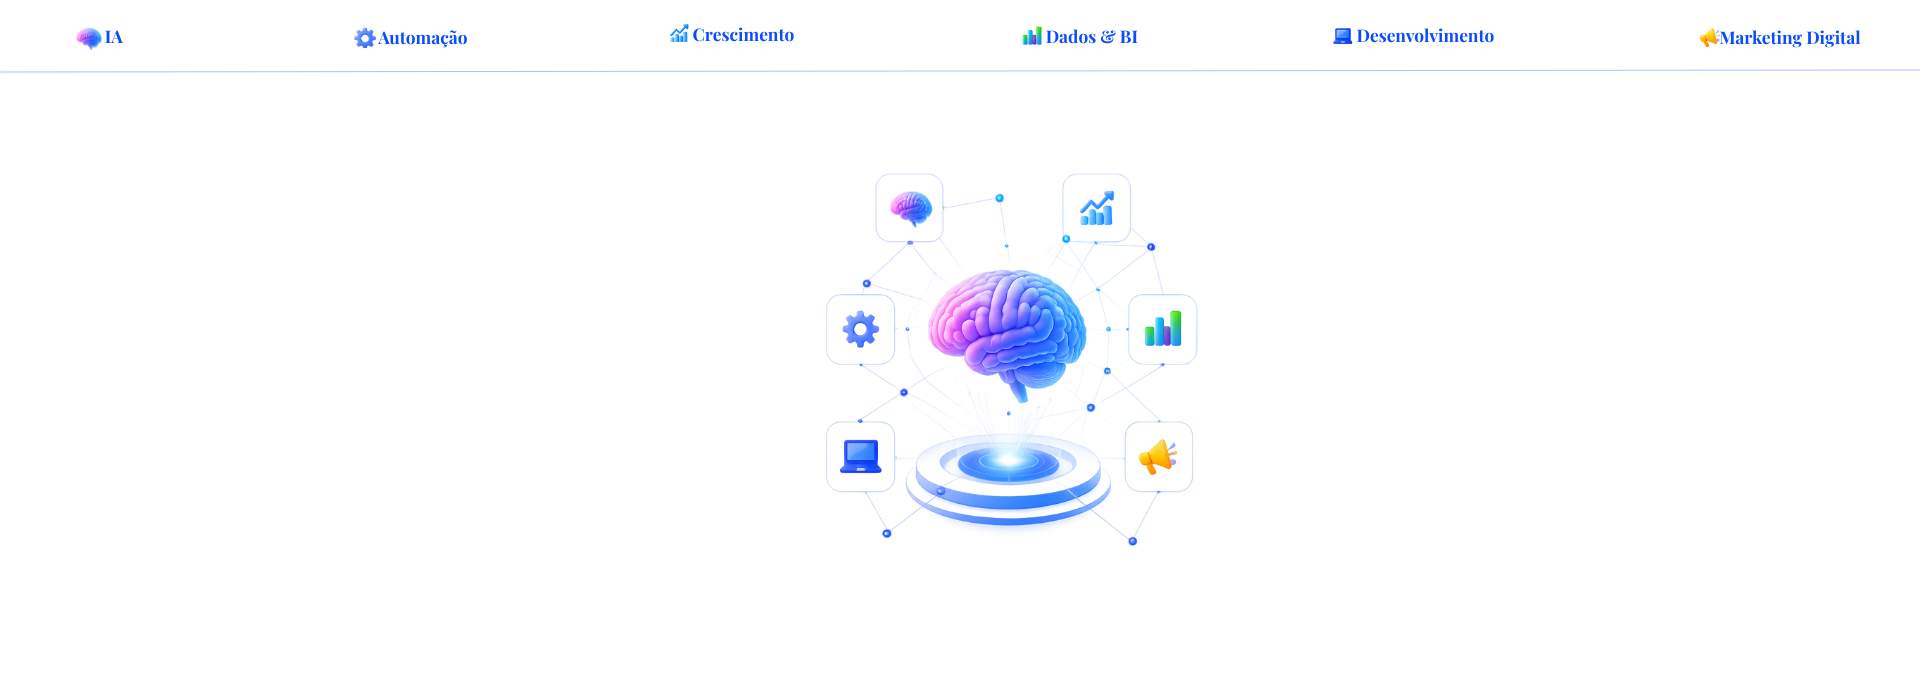
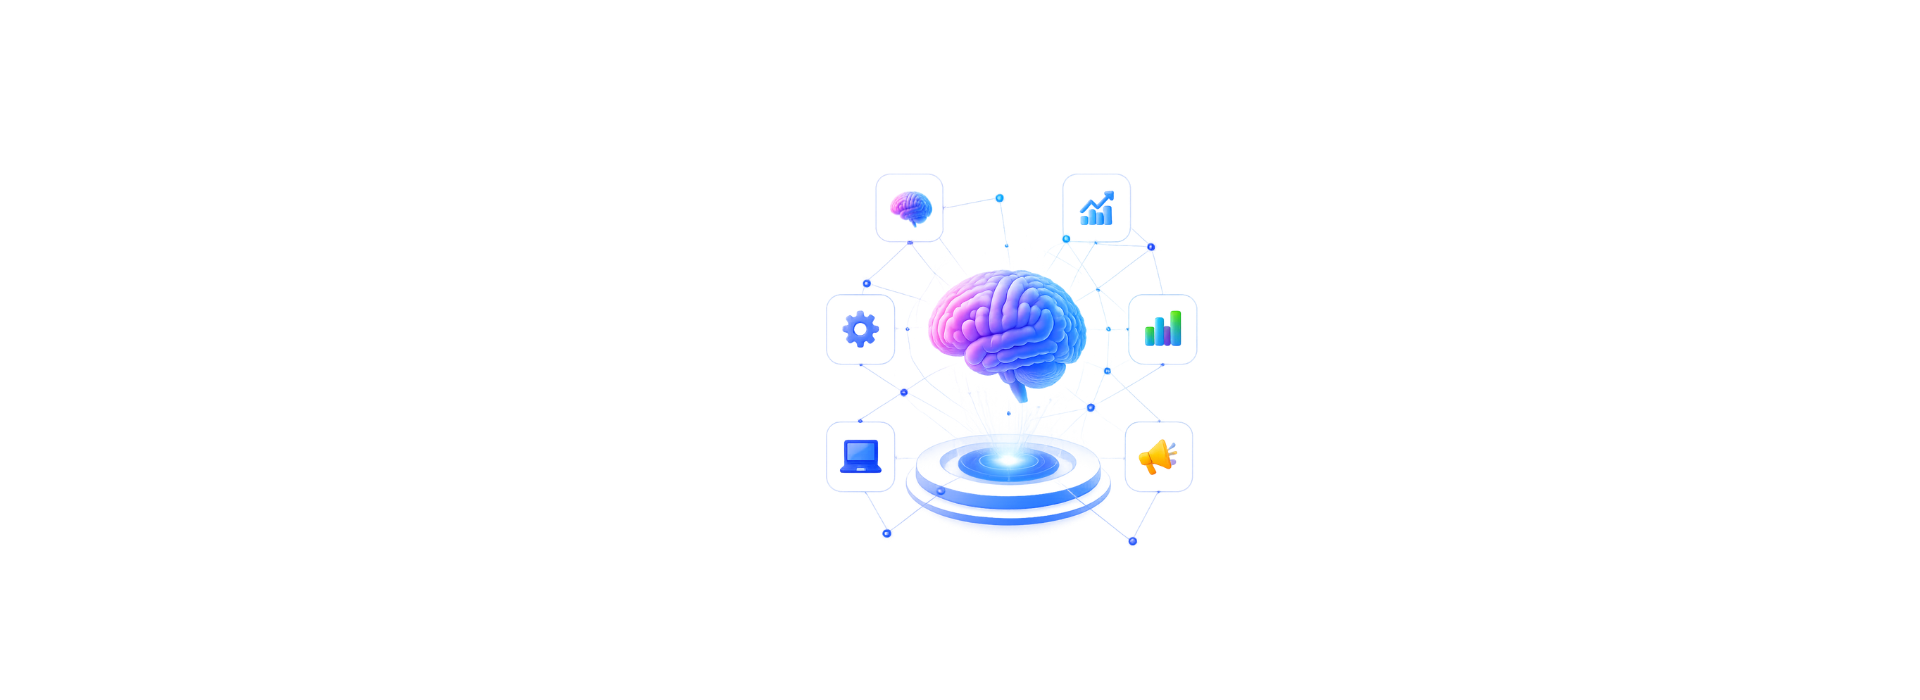
update CTAs, css and about, home and services pages

diff --git a/client/src/components/ui/cta/QuizCTA.tsx b/client/src/components/ui/cta/QuizCTA.tsx
@@ -4,17 +4,28 @@ import { PremiumButton } from "@/components/ui/button/PremiumButton";
 import { Reveal } from "@/components/ui/motion/Reveal";
 import { Icons } from "@/lib/icons";
 
+const highlightStyle = {
+  font: "inherit",
+  fontWeight: "inherit",
+  lineHeight: "inherit",
+  letterSpacing: "inherit",
+};
+
 const quizCtaContent = {
   pt: {
     label: "Quiz IA",
-    title: "Descubra o potencial da IA para o seu negócio",
-    description: "Responda a um quiz rápido e perceba onde a inteligência artificial pode gerar mais eficiência, crescimento e clareza.",
+    title: "Descubra o potencial da IA",
+    title_highlight: "para o seu negócio",
+    description: "Responda a um quiz rápido e perceba onde a inteligência artificial pode gerar",
+    description_highlight: "mais eficiência, crescimento e clareza.",
     button: "Fazer o Quiz IA",
   },
   en: {
     label: "AI Quiz",
-    title: "Discover the AI potential inside your business",
-    description: "Take a quick quiz and understand where artificial intelligence can create more efficiency, growth, and clarity.",
+    title: "Discover the AI potential",
+    title_highlight: "inside your business",
+    description: "Take a quick quiz and understand where artificial intelligence can create",
+    description_highlight: "more efficiency, growth, and clarity.",
     button: "Take the AI Quiz",
   },
 };
@@ -31,9 +42,31 @@ export function QuizCTA() {
       <div className="relative z-10 mx-auto flex max-w-6xl flex-col items-center gap-8 text-center lg:flex-row lg:justify-between lg:text-left">
         <Reveal>
           <div className="max-w-3xl">
-            <p className="mb-4 font-detail text-[12px] font-black uppercase tracking-[0.24em] text-[var(--brand-primary)]">{content.label}</p>
-            <h2 className="font-heading text-[40px] font-black leading-tight text-[var(--brand-night)]">{content.title}</h2>
-            <p className="mt-5 max-w-2xl text-[14px] font-medium leading-relaxed text-[var(--brand-ink)]">{content.description}</p>
+            <p className="mb-4 font-detail text-[12px] font-black uppercase tracking-[0.24em] text-[var(--brand-primary)]">
+              {content.label}
+            </p>
+            <h2 className="font-heading text-[40px] font-black leading-tight text-[var(--brand-night)]">
+              {content.title}
+              {content.title_highlight && (
+                <>
+                  {" "}
+                  <span className="text-[#00D1FF]" style={highlightStyle}>
+                    {content.title_highlight}
+                  </span>
+                </>
+              )}
+            </h2>
+            <p className="mt-5 max-w-2xl text-[14px] font-medium leading-relaxed text-[var(--brand-ink)]">
+              {content.description}
+              {content.description_highlight && (
+                <>
+                  {" "}
+                  <span className="text-[#00D1FF]" style={highlightStyle}>
+                    {content.description_highlight}
+                  </span>
+                </>
+              )}
+            </p>
           </div>
         </Reveal>
 

diff --git a/client/src/content/styles/legal.css b/client/src/content/styles/legal.css
@@ -1,5 +1,5 @@
 .legal-page {
-  background: var(--section-ice);
+  background: var(--brand-offwhite);
   color: var(--brand-night);
 }
 
@@ -7,20 +7,20 @@
   position: relative;
   overflow: hidden;
   padding: 80px 52px 100px;
-  background: var(--section-ice);
+  background: var(--brand-offwhite);
 }
 
 .legal-main-bg {
+  display: none;
   position: absolute;
   inset: 0;
   pointer-events: none;
-  background:
-    radial-gradient(ellipse 45% 52% at 88% 12%, color-mix(in srgb, var(--brand-purple) 9%, transparent) 0%, transparent 65%),
-    radial-gradient(ellipse 34% 44% at 5% 82%, color-mix(in srgb, var(--brand-primary) 5%, transparent) 0%, transparent 62%);
+  background: none;
 }
 
 .legal-main-bg::after {
-  content: "";
+  content: none;
+  display: none;
   position: absolute;
   inset: 0;
   background-image:
@@ -58,8 +58,8 @@
 }
 
 .legal-sidebar-title {
-  margin-bottom: 16px;
-  color: color-mix(in srgb, var(--brand-night) 34%, transparent);
+  margin-bottom: 20px;
+  color: #60A5FA;
 }
 
 .legal-cats {
@@ -80,7 +80,7 @@
   font-family: var(--font-body);
   font-size: 14px !important;
   font-weight: 700;
-  color: color-mix(in srgb, var(--brand-night) 54%, transparent);
+  color: var(--brand-night);
   cursor: pointer;
   text-align: left;
   transition: all .2s ease;
@@ -341,11 +341,14 @@
   color: #60A5FA;
 }
 
-.dark .legal-sidebar-title,
 .dark .legal-cat,
-.dark .legal-group-title,
 .dark .legal-document-card h2 {
   color: var(--brand-offwhite);
+}
+
+.dark .legal-sidebar-title,
+.dark .legal-group-title {
+  color: #60A5FA;
 }
 
 .dark .legal-document-card p {

diff --git a/client/src/pages/Services.tsx b/client/src/pages/Services.tsx
@@ -1,4 +1,4 @@
-import { useEffect, useState } from "react";
+import { useEffect, useRef, useState } from "react";
 import { useLocation } from "wouter";
 
 import { FinalCTA } from "@/components/ui/cta/FinalCTA";
@@ -296,6 +296,7 @@ export default function Services(_props: { lang?: string }) {
   const lang = location.split("/")[1] || "pt";
   const content = getContent("services", lang);
   const [activeSection, setActiveSection] = useState(SERVICE_SECTIONS[0].id);
+  const manualScrollLockRef = useRef<number | null>(null);
 
   useEffect(() => {
     setSEOHead({
@@ -319,6 +320,8 @@ export default function Services(_props: { lang?: string }) {
           .filter((entry) => entry.isIntersecting)
           .sort((a, b) => b.intersectionRatio - a.intersectionRatio)[0];
 
+        if (manualScrollLockRef.current && Date.now() < manualScrollLockRef.current) return;
+
         if (visible?.target.id) {
           setActiveSection(visible.target.id.replace("service-", ""));
         }
@@ -332,6 +335,7 @@ export default function Services(_props: { lang?: string }) {
   }, []);
 
   const handleSelectSection = (id: string) => {
+    manualScrollLockRef.current = Date.now() + 1100;
     setActiveSection(id);
     document.getElementById(`service-${id}`)?.scrollIntoView({ behavior: "smooth", block: "start" });
   };
@@ -350,14 +354,14 @@ export default function Services(_props: { lang?: string }) {
       />
 
       {/* ── Docs Layout ── */}
-      <Section className="bg-[var(--section-ice)] py-20 md:py-28">
-        <div className="container mx-auto px-6">
-          <div className="mx-auto max-w-6xl">
-            <div className="grid gap-10 lg:grid-cols-[260px_1fr] lg:gap-16">
+      <Section className="bg-[var(--section-ice)] px-0 py-20 md:py-28">
+        <div className="w-full px-6">
+          <div className="w-full">
+            <div className="grid w-full gap-8 lg:grid-cols-[260px_minmax(0,1fr)] lg:gap-10">
 
               {/* Sidebar fixa */}
-              <aside className="legal-sidebar hidden lg:block">
-                <div className="legal-sidebar-title">{lang === "en" ? "Services" : "Serviços"}</div>
+              <aside className="sticky top-28 hidden h-fit self-start justify-self-start lg:block">
+                <div className="legal-group-title">{lang === "en" ? "Services" : "Serviços"}</div>
                 <ServicesSidebar active={activeSection} lang={lang} onSelect={handleSelectSection} />
               </aside>
 
@@ -386,7 +390,7 @@ export default function Services(_props: { lang?: string }) {
               </div>
 
               {/* Conteúdo variável */}
-              <main className="flex-1 flex flex-col gap-12">
+              <main className="flex min-w-0 flex-1 flex-col gap-12">
                 {/* Divisor vertical visível apenas em desktop */}
                 <div className="contents">
                   {SERVICE_SECTIONS.map((section) => (
@@ -394,7 +398,7 @@ export default function Services(_props: { lang?: string }) {
                       key={section.id}
                       id={`service-${section.id}`}
                       aria-label={section.navLabel[lang === "en" ? "en" : "pt"]}
-                      className="w-full h-[350px] scroll-mt-32 rounded-2xl bg-cover bg-center bg-no-repeat shadow-[0_18px_38px_rgba(1,32,80,0.08)]"
+                      className="h-[min(680px,calc(100vh-9rem))] min-h-[430px] w-full scroll-mt-32 rounded-2xl bg-cover bg-center bg-no-repeat shadow-[0_18px_38px_rgba(1,32,80,0.08)]"
                       style={{ backgroundImage: `url('${section.backgroundImage}')` }}
                     />
                   ))}

diff --git a/client/src/components/ui/cta/FinalCTA.tsx b/client/src/components/ui/cta/FinalCTA.tsx
@@ -35,9 +35,10 @@ export function FinalCTA({
 
   const isHomeVariant = variant === "home";
   const isAboutVariant = variant === "about";
-  const isCentered = align ? align === "center" : isHomeVariant;
+  const usesHeroTextPattern = isHomeVariant || isAboutVariant;
+  const isCentered = align ? align === "center" : usesHeroTextPattern;
 
-  const titleFontSize = isHomeVariant
+  const titleFontSize = usesHeroTextPattern
     ? "clamp(40px, 5vw, 56px)"
     : "40px";
 
@@ -103,7 +104,7 @@ export function FinalCTA({
                 className="font-black leading-[1.08] tracking-normal"
                 style={{
                   fontFamily: "var(--font-heading)",
-                  color: isHomeVariant ? "#FFFFFF" : "#000000",
+                  color: usesHeroTextPattern ? "#FFFFFF" : "#000000",
                   fontSize: titleFontSize,
                 }}
               >
@@ -114,7 +115,7 @@ export function FinalCTA({
                     {breakTitleHighlight ? <br /> : " "}
                     <span
                       className={
-                        isHomeVariant
+                        usesHeroTextPattern
                           ? "text-[#00D1FF]"
                           : "text-[#0A84FF]"
                       }
@@ -137,7 +138,7 @@ export function FinalCTA({
                   className="mt-7 font-medium leading-relaxed"
                   style={{
                     fontFamily: "var(--font-body)",
-                    color: isHomeVariant ? "#FFFFFF" : "#001547",
+                    color: usesHeroTextPattern ? "#FFFFFF" : "#001547",
                     fontSize: descriptionFontSize,
                   }}
                 >
@@ -148,7 +149,7 @@ export function FinalCTA({
                       <br />
                       <span
                         className={
-                          isHomeVariant
+                          usesHeroTextPattern
                             ? "text-[#00D1FF]"
                             : "text-[#0A84FF]"
                         }

diff --git a/client/src/styles/quizAI.css b/client/src/styles/quizAI.css
@@ -13,7 +13,7 @@
   position: relative;
   min-height: 100vh;
   width: 100%;
-  background: #eaf6ff;
+  background: var(--brand-offwhite);
   color: var(--text);
   font-family: var(--font-body);
   overflow: visible;
@@ -31,13 +31,8 @@
   flex-direction: column;
   align-items: center;
   justify-content: center;
-  background-color: var(--section-ice);
-  background-image:
-    radial-gradient(ellipse 45% 52% at 88% 12%, color-mix(in srgb, var(--brand-purple) 9%, transparent) 0%, transparent 65%),
-    radial-gradient(ellipse 34% 44% at 5% 82%, color-mix(in srgb, var(--brand-primary) 5%, transparent) 0%, transparent 62%),
-    linear-gradient(color-mix(in srgb, var(--brand-purple) 8%, transparent) 1px, transparent 1px),
-    linear-gradient(90deg, color-mix(in srgb, var(--brand-purple) 8%, transparent) 1px, transparent 1px);
-  background-size: 73px 73px, 73px 73px, auto;
+  background-color: var(--brand-offwhite);
+  background-image: none;
 }
 
 .quiz-bg-radials { position: absolute; inset: 0; pointer-events: none; z-index: 0; background: none; }
@@ -191,7 +186,7 @@
 
 /* Painel da questão */
 .quiz-question-panel { width: 100%; }
-.quiz-question-kicker { margin: 0 0 14px; color: #0877ff; font-family: var(--font-detail); font-size: 14px; font-weight: 800; letter-spacing: 0.08em; text-transform: uppercase; }
+.quiz-question-kicker { margin: 0 0 20px; color: #60A5FA; font-family: var(--font-detail); font-size: 12px; font-weight: 900; letter-spacing: .18em; text-transform: uppercase; }
 .quiz-question-text { margin: 0 0 40px; color: #000246; font-family: var(--font-heading) !important; font-size: clamp(1.8rem, 4vw, 2.6rem) !important; font-weight: 800; line-height: 1.2; letter-spacing: -0.01em; text-align: left; }
 
 /* Opções de Resposta */

diff --git a/client/src/components/legal/LegalDocumentPage.tsx b/client/src/components/legal/LegalDocumentPage.tsx
@@ -119,7 +119,7 @@ export default function LegalDocumentPage({ content, slug, fallbackDescription }
         <div className="legal-inner">
           <Reveal>
             <aside className="legal-sidebar">
-              <div className="legal-sidebar-title">{legalCopy.sidebar}</div>
+              <div className="legal-group-title">{legalCopy.sidebar}</div>
               <div className="legal-cats">
                 {sections.map((section) => {
                   const isActive = section.id === activeSection?.id;

diff --git a/client/src/pages/Home.tsx b/client/src/pages/Home.tsx
@@ -51,7 +51,7 @@ function HomeBannerSection({ lang, file, label, id}: HomeBannerSectionProps) {
   return (
     <section
       id={id}
-      className="relative w-full overflow-hidden bg-[var(--section-ice)] bg-contain bg-center bg-no-repeat"
+      className="relative block w-full overflow-hidden bg-[var(--section-ice)] bg-contain bg-center bg-no-repeat m-0 p-0 border-0"
       style={{ backgroundImage: `url(${backgroundSrc})` }}
       aria-label={label}
     >

diff --git a/client/src/pages/About.tsx b/client/src/pages/About.tsx
@@ -330,7 +330,6 @@ export default function About() {
         description_highlight={founders.cta.description_highlight}
         button={founders.cta.button}
         variant="about"
-        align="left"
         backgroundSrc="/media/bg/final_CTA_sobre.png"
       />
     </div>